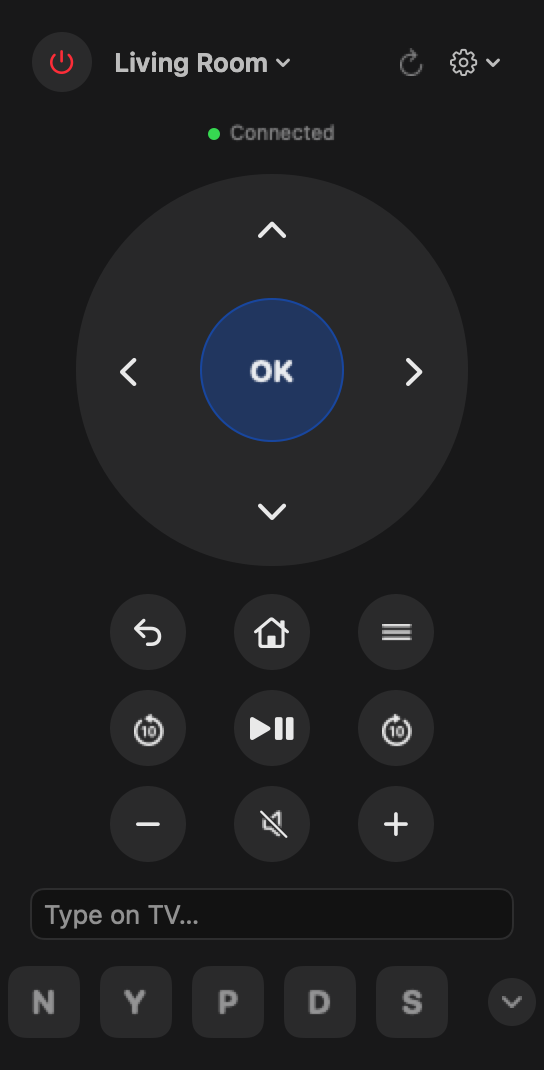
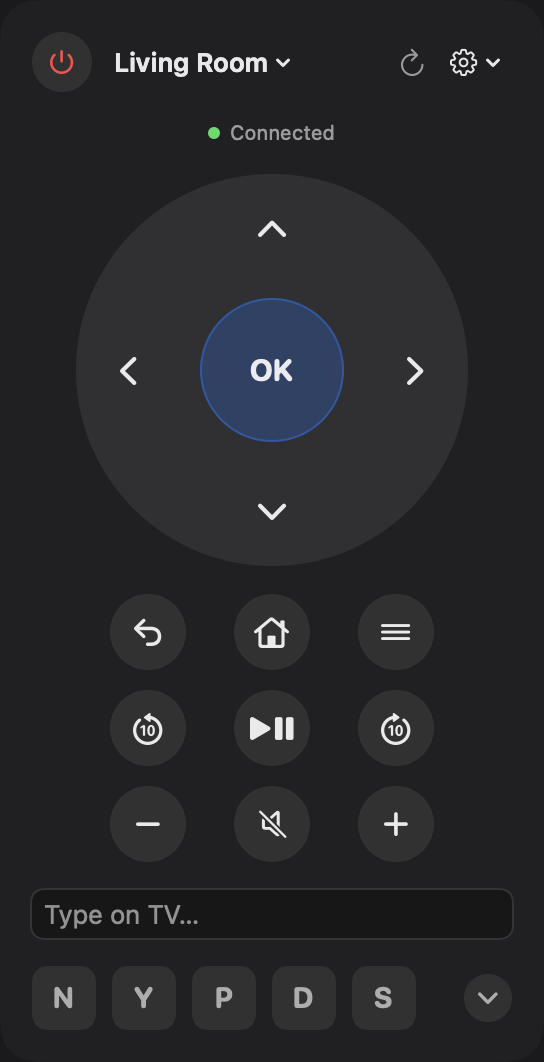
Fix popover resizing, pairing form, and expanded app layout

diff --git a/Sources/UniversalTVRemote/App.swift b/Sources/UniversalTVRemote/App.swift
@@ -84,6 +84,8 @@ final class AppState: ObservableObject {
         self.defaults = defaults
         self.makeSession = makeSession ?? { RemoteSession(device: $0, defaults: defaults) }
         self.session = initialSession
+        sessionForwarder = initialSession?.objectWillChange
+            .sink { [weak self] _ in self?.objectWillChange.send() }
         // Forward the discovery engine's changes (new devices, renames) so
         // views observing AppState re-render.
         discoveryForwarder = discovery.objectWillChange
@@ -186,6 +188,7 @@ struct RemoteView: View {
     @State private var pinInput = ""
     @State private var textInput = ""
     @FocusState private var typingFocused: Bool
+    @FocusState private var pairingFocused: Bool
     // Manual "Add TV by IP" form state (shown in place of the status area).
     @State private var addingManually = false
     @State private var manualBrand: TVBrand = .fireTV
@@ -195,10 +198,61 @@ struct RemoteView: View {
     // Inline "Rename this TV" form state.
     @State private var renaming = false
     @State private var renameInput = ""
+    @State private var screenHeight: CGFloat = NSScreen.main?.visibleFrame.height ?? 800
+    private let previewHeight: CGFloat?
+
+    init(appsExpanded: Bool = false, availableHeight: CGFloat? = nil) {
+        _appsExpanded = .init(initialValue: appsExpanded)
+        previewHeight = availableHeight
+    }
+
+    private var maximumBodyHeight: CGFloat {
+        max(180, (previewHeight ?? screenHeight) - 100)
+    }
 
     var body: some View {
         VStack(spacing: 14) {
             header
+            ViewThatFits(in: .vertical) {
+                bodyContent.fixedSize(horizontal: false, vertical: true)
+                ScrollView(.vertical) {
+                    bodyContent
+                }
+                .scrollIndicators(.never)
+                .frame(height: maximumBodyHeight)
+            }
+            .frame(maxHeight: maximumBodyHeight)
+        }
+        .padding(16)
+        .frame(width: 272)
+        .fixedSize(horizontal: false, vertical: true)
+        .background(.ultraThinMaterial)
+        .clipShape(RoundedRectangle(cornerRadius: 18))
+        .background(GeometryReader { geometry in
+            WindowTopPin(contentSize: geometry.size) {
+                if abs(screenHeight - $0) > 0.5 { screenHeight = $0 }
+            }
+        })
+        .preferredColorScheme(.dark)
+        .environment(\.offlinePreview, !state.startsDiscovery)
+        .onAppear {
+            if case .awaitingPairing(.pin) = state.session?.state { pairingFocused = true }
+            guard state.startsDiscovery else { return }
+            state.discovery.scan()
+            state.installKeyMonitors()
+        }
+        .onDisappear { state.removeKeyMonitors() }
+        .onChange(of: typingFocused) { _, focused in state.textFieldFocused = focused || pairingFocused }
+        .onChange(of: pairingFocused) { _, focused in state.textFieldFocused = focused || typingFocused }
+        .onChange(of: state.session?.state) { _, newState in
+            pinInput = ""
+            if case .awaitingPairing(.pin) = newState { pairingFocused = true }
+            else { pairingFocused = false }
+        }
+    }
+
+    private var bodyContent: some View {
+        VStack(spacing: 14) {
             if addingManually {
                 addTVForm
             } else if renaming {
@@ -215,19 +269,6 @@ struct RemoteView: View {
                 emptyState
             }
         }
-        .padding(16)
-        .frame(width: 272)
-        .background(.ultraThinMaterial)
-        .background(WindowTopPin())
-        .preferredColorScheme(.dark)
-        .environment(\.offlinePreview, !state.startsDiscovery)
-        .onAppear {
-            guard state.startsDiscovery else { return }
-            state.discovery.scan()
-            state.installKeyMonitors()
-        }
-        .onDisappear { state.removeKeyMonitors() }
-        .onChange(of: typingFocused) { _, focused in state.textFieldFocused = focused }
     }
 
     // MARK: header — power · device picker · refresh · settings
@@ -373,22 +414,45 @@ struct RemoteView: View {
                     .foregroundStyle(.secondary)
             }
         case .awaitingPairing(.pin(let digits)):
-            VStack(spacing: 8) {
-                Text("Enter the \(digits)-character code\nshown on your TV")
+            VStack(spacing: 14) {
+                Image(systemName: "lock.shield")
+                    .font(.system(size: 24, weight: .medium))
+                    .foregroundStyle(.blue)
+                VStack(spacing: 5) {
+                    Text("Pair your TV")
+                        .font(.system(size: 15, weight: .semibold))
+                    Text("Enter the \(digits)-\(digits == 4 ? "digit PIN" : "character code") shown on your TV.")
                     .font(.caption)
                     .multilineTextAlignment(.center)
                     .foregroundStyle(.secondary)
-                HStack {
-                    TextField("Code", text: $pinInput)
-                        .textFieldStyle(.roundedBorder)
-                        .frame(width: 110)
-                        .onSubmit(submitPIN)
-                    Button("Pair", action: submitPIN)
-                        .buttonStyle(.borderedProminent)
-                        .controlSize(.small)
-                        .disabled(pinInput.count < digits)
                 }
+                TextField(digits == 4 ? "0000" : "000000", text: $pinInput)
+                        .font(.system(size: 24, weight: .medium, design: .monospaced))
+                        .multilineTextAlignment(.center)
+                        .textFieldStyle(.plain)
+                        .padding(.vertical, 10)
+                        .frame(maxWidth: .infinity)
+                        .background(RoundedRectangle(cornerRadius: 10).fill(.black.opacity(0.2)))
+                        .overlay(RoundedRectangle(cornerRadius: 10)
+                            .stroke(pairingFocused ? Color.blue : Color.white.opacity(0.12), lineWidth: pairingFocused ? 2 : 1))
+                        .focused($pairingFocused)
+                        .onSubmit(submitPIN)
+                        .onChange(of: pinInput) { _, value in
+                            pinInput = String(value.uppercased().filter {
+                                digits == 4 ? $0.isASCII && $0.isNumber : $0.isHexDigit
+                            }.prefix(digits))
+                        }
+                    Button(action: submitPIN) {
+                        Text("Pair").frame(maxWidth: .infinity)
+                    }
+                        .buttonStyle(.borderedProminent)
+                        .controlSize(.large)
+                        .frame(maxWidth: .infinity)
+                        .disabled(pinInput.count != digits)
             }
+            .padding(16)
+            .frame(maxWidth: .infinity)
+            .background(RoundedRectangle(cornerRadius: 14).fill(.white.opacity(0.05)))
         }
     }
 
@@ -457,7 +521,8 @@ struct RemoteView: View {
     }
 
     private func submitPIN() {
-        guard !pinInput.isEmpty else { return }
+        guard case .awaitingPairing(.pin(let digits)) = state.session?.state,
+              pinInput.count == digits else { return }
         state.session?.submitPairingCode(pinInput.trimmingCharacters(in: .whitespaces))
         pinInput = ""
     }
@@ -526,9 +591,9 @@ struct RemoteView: View {
             VStack(spacing: 8) {
                 if !appsExpanded {
                     // Collapsed: just the top few, icon-only.
-                    HStack(spacing: 10) {
+                    HStack(spacing: 8) {
                         ForEach(session.apps.prefix(5)) { app in
-                            AppIconButton(app: app, size: 36, showName: false) {
+                            AppIconButton(app: app, size: 32, showName: false) {
                                 session.launchApp(app.id)
                             }
                         }
@@ -810,7 +875,9 @@ struct AppIconButton: View {
                 if showName {
                     Text(app.name)
                         .font(.caption2)
-                        .lineLimit(1)
+                        .lineLimit(2)
+                        .multilineTextAlignment(.center)
+                        .frame(height: 28, alignment: .top)
                         .foregroundStyle(.secondary)
                 }
             }
@@ -834,54 +901,66 @@ struct AppIconButton: View {
     }
 }
 
-/// Keeps the popover's TOP edge fixed while its height changes.
-///
-/// macOS windows are anchored at their bottom-left corner, and the
-/// MenuBarExtra panel resizes whenever SwiftUI content height changes
-/// (connect status appearing, app icons loading, the grid expanding…).
-/// Bottom anchored + taller = the window grows UPWARD, sliding under the
-/// menu bar and off the screen. This invisible helper grabs the hosting
-/// NSWindow, remembers where its top edge belongs (clamped to the screen's
-/// usable area), and re-anchors it after every resize.
+/// Resize to the measured SwiftUI content, then keep the top under the menu bar.
+/// Coalescing updates avoids changing the frame inside AppKit's resize notification.
 struct WindowTopPin: NSViewRepresentable {
+    let contentSize: CGSize
+    var onScreenHeight: ((CGFloat) -> Void)? = nil
+
+    final class AnchorView: NSView {
+        var attached: ((NSWindow) -> Void)?
+        override func viewDidMoveToWindow() {
+            super.viewDidMoveToWindow()
+            if let window { attached?(window) }
+        }
+    }
+
     final class Coordinator {
-        var observer: NSObjectProtocol?
+        var desiredSize: CGSize = .zero
         var topEdge: CGFloat?
-        deinit { if let observer { NotificationCenter.default.removeObserver(observer) } }
+        var pending = false
+        var onScreenHeight: ((CGFloat) -> Void)?
+
+        func synchronize(_ window: NSWindow) {
+            guard !pending else { return }
+            pending = true
+            DispatchQueue.main.async { [weak self, weak window] in
+                guard let self else { return }
+                self.pending = false
+                guard let window, self.desiredSize.width > 0, self.desiredSize.height > 0 else { return }
+                let screenTop = (window.screen ?? NSScreen.main)?.visibleFrame.maxY ?? window.frame.maxY
+                if let height = (window.screen ?? NSScreen.main)?.visibleFrame.height {
+                    self.onScreenHeight?(height)
+                }
+                let top = min(self.topEdge ?? window.frame.maxY, screenTop)
+                self.topEdge = top
+                let size = window.contentView?.bounds.size ?? .zero
+                if abs(size.width - self.desiredSize.width) > 0.5 || abs(size.height - self.desiredSize.height) > 0.5 {
+                    window.setContentSize(self.desiredSize)
+                }
+                if abs(window.frame.maxY - top) > 0.5 {
+                    window.setFrameOrigin(NSPoint(x: window.frame.minX, y: top - window.frame.height))
+                }
+            }
+        }
     }
 
     func makeCoordinator() -> Coordinator { Coordinator() }
 
-    func makeNSView(context: Context) -> NSView {
-        let view = NSView()
-        // The window isn't attached until after view installation.
-        DispatchQueue.main.async {
-            guard let window = view.window, context.coordinator.observer == nil else { return }
-            let coordinator = context.coordinator
-
-            // Snap the top edge back to (at most) the screen's usable top and
-            // hold it there. Runs once at attach — the panel is reused across
-            // opens and may still carry a displaced frame from last time —
-            // and again after every content resize.
-            func anchor() {
-                let screenTop = (window.screen ?? NSScreen.main)?.visibleFrame.maxY ?? .infinity
-                let top = min(coordinator.topEdge ?? window.frame.maxY, screenTop)
-                coordinator.topEdge = top
-                var frame = window.frame
-                guard abs(frame.maxY - top) > 0.5 else { return }
-                frame.origin.y = top - frame.height
-                window.setFrame(frame, display: true)
-            }
-
-            anchor()
-            coordinator.observer = NotificationCenter.default.addObserver(
-                forName: NSWindow.didResizeNotification, object: window, queue: .main
-            ) { _ in anchor() }
-        }
+    func makeNSView(context: Context) -> AnchorView {
+        let view = AnchorView()
+        let coordinator = context.coordinator
+        coordinator.desiredSize = contentSize
+        coordinator.onScreenHeight = onScreenHeight
+        view.attached = { [weak coordinator] window in coordinator?.synchronize(window) }
         return view
     }
 
-    func updateNSView(_ nsView: NSView, context: Context) {}
+    func updateNSView(_ view: AnchorView, context: Context) {
+        context.coordinator.desiredSize = contentSize
+        context.coordinator.onScreenHeight = onScreenHeight
+        if let window = view.window { context.coordinator.synchronize(window) }
+    }
 }
 
 /// Scales the button down slightly while pressed — cheap tactile feedback.

diff --git a/Tests/UniversalTVRemoteTests/ScreenshotTests.swift b/Tests/UniversalTVRemoteTests/ScreenshotTests.swift
@@ -22,9 +22,7 @@ private final class ScreenshotDriver: TVDriver {
 struct ScreenshotTests {
     @Test @MainActor
     func testCaptureOfflineAppScreenshots() async throws {
-        guard let directory = ProcessInfo.processInfo.environment["README_SCREENSHOTS"] else {
-            return
-        }
+        let directory = ProcessInfo.processInfo.environment["README_SCREENSHOTS"]
         let suite = "ScreenshotTests.\(UUID())"
         let defaults = UserDefaults(suiteName: suite)!
         defer { defaults.removePersistentDomain(forName: suite) }
@@ -34,24 +32,43 @@ struct ScreenshotTests {
         let driver = ScreenshotDriver()
         let session = RemoteSession(device: device, driver: driver, defaults: defaults)
         let state = AppState(discovery: discovery, initialSession: session, startsDiscovery: false, defaults: defaults)
-        try FileManager.default.createDirectory(atPath: directory, withIntermediateDirectories: true)
-        for (filename, status) in [("remote-connected.png", SessionState.connected),
-                                   ("remote-disconnected.png", .failed("Disconnected — Fire TV remote service is unavailable"))] {
+        if let directory { try FileManager.default.createDirectory(atPath: directory, withIntermediateDirectories: true) }
+        var connectedHeight: CGFloat = 0
+        let window = NSWindow(contentRect: NSRect(x: 0, y: 0, width: 272, height: 800),
+                              styleMask: .borderless, backing: .buffered, defer: false)
+        defer { window.contentView = nil }
+        for (filename, status, expanded) in [("remote-connected.png", SessionState.connected, false),
+                                   ("remote-expanded.png", .connected, true),
+                                   ("remote-expanded-compact.png", .connected, true),
+                                   ("remote-pairing.png", .awaitingPairing(.pin(digits: 4)), false),
+                                   ("remote-pairing-android.png", .awaitingPairing(.pin(digits: 6)), false),
+                                   ("remote-disconnected.png", .failed("Disconnected — Fire TV remote service is unavailable"), false)] {
             driver.nextState = status
             session.connect()
             await Task.yield()
             try await Task.sleep(nanoseconds: 100_000_000)
-            let view = RemoteView().environmentObject(state)
+            let compact = filename == "remote-expanded-compact.png"
+            let view = RemoteView(appsExpanded: expanded, availableHeight: compact ? 620 : nil).environmentObject(state)
                 .background(Color(red: 0.10, green: 0.10, blue: 0.11))
             let hosting = NSHostingView(rootView: view)
             hosting.appearance = NSAppearance(named: .darkAqua)
+            window.contentView = hosting
+            hosting.layoutSubtreeIfNeeded()
+            try await Task.sleep(nanoseconds: 200_000_000)
             let size = hosting.fittingSize
+            #expect(abs(size.width - 272) < 1)
+            #expect(size.height > 100)
+            #expect(size.height <= (NSScreen.main?.visibleFrame.height ?? 800) - 20)
+            #expect(abs(window.contentView!.bounds.height - size.height) < 1)
+            if compact { #expect(size.height <= 600) }
+            if filename == "remote-connected.png" { connectedHeight = size.height }
+            if filename == "remote-pairing.png" { #expect(size.height < connectedHeight) }
             hosting.frame = NSRect(origin: .zero, size: size)
             hosting.layoutSubtreeIfNeeded()
             let rep = try #require(hosting.bitmapImageRepForCachingDisplay(in: hosting.bounds))
             hosting.cacheDisplay(in: hosting.bounds, to: rep)
             let png = try #require(rep.representation(using: .png, properties: [:]))
-            try png.write(to: URL(fileURLWithPath: directory).appendingPathComponent(filename))
+            if let directory { try png.write(to: URL(fileURLWithPath: directory).appendingPathComponent(filename)) }
             session.disconnect()
         }
     }

diff --git a/README.md b/README.md
@@ -6,11 +6,16 @@ TV on your local network.
 
 ## Screenshots
 
-Connected remote and disconnected state, captured from the actual SwiftUI
-views using an offline demo device. Demo app tiles use letter placeholders.
+Connected, pairing, expanded apps on a shorter screen, and disconnected
+states, captured from the actual SwiftUI views using an offline demo device.
+Demo app tiles use letter placeholders.
 
 <p>
   <img src="docs/screenshots/remote-connected.png" alt="Connected remote with power, direction pad, media controls, volume, text input and app shortcuts" width="272" />
+  <img src="docs/screenshots/remote-pairing.png" alt="Pairing card with a centered four-digit PIN field" width="272" />
+</p>
+<p>
+  <img src="docs/screenshots/remote-expanded-compact.png" alt="Expanded apps with the header visible and scrollable content on a shorter screen" width="272" />
   <img src="docs/screenshots/remote-disconnected.png" alt="Disconnected Fire TV with a Reconnect button" width="272" />
 </p>
 
@@ -50,7 +55,9 @@ views using an offline demo device. Demo app tiles use letter placeholders.
   or add one manually by IP address or hostname.
 - **Launch at Login:** enable it from the settings menu.
 - Compact dark SwiftUI popover with immediate button presses and a pinned
-  top edge when the app list expands. No cloud account or ADB required.
+  header when the app list expands. The panel fits its screen, scrolls long
+  content, and shrinks to a centered pairing card during re-pairing. No cloud
+  account or ADB required.
 
 ## Install
 
